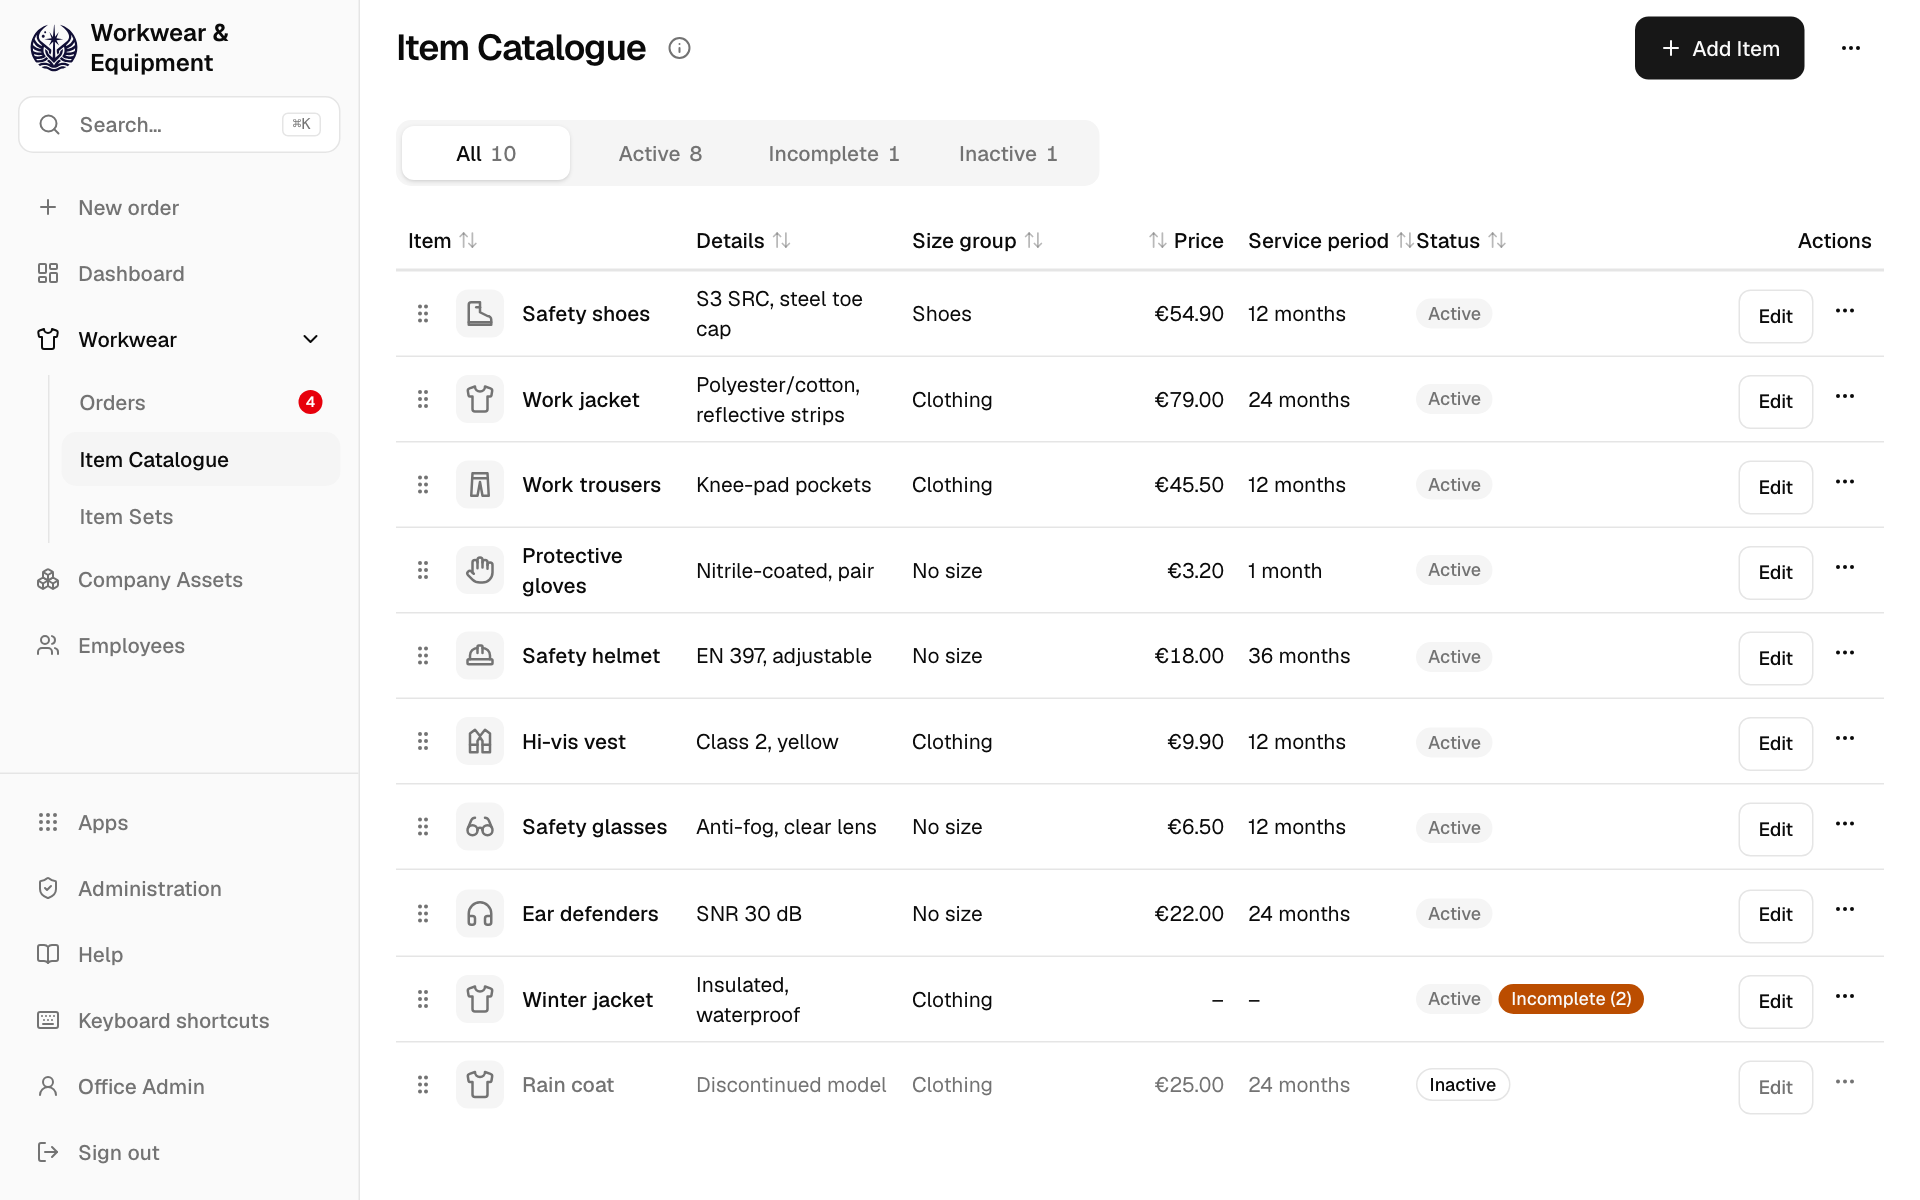
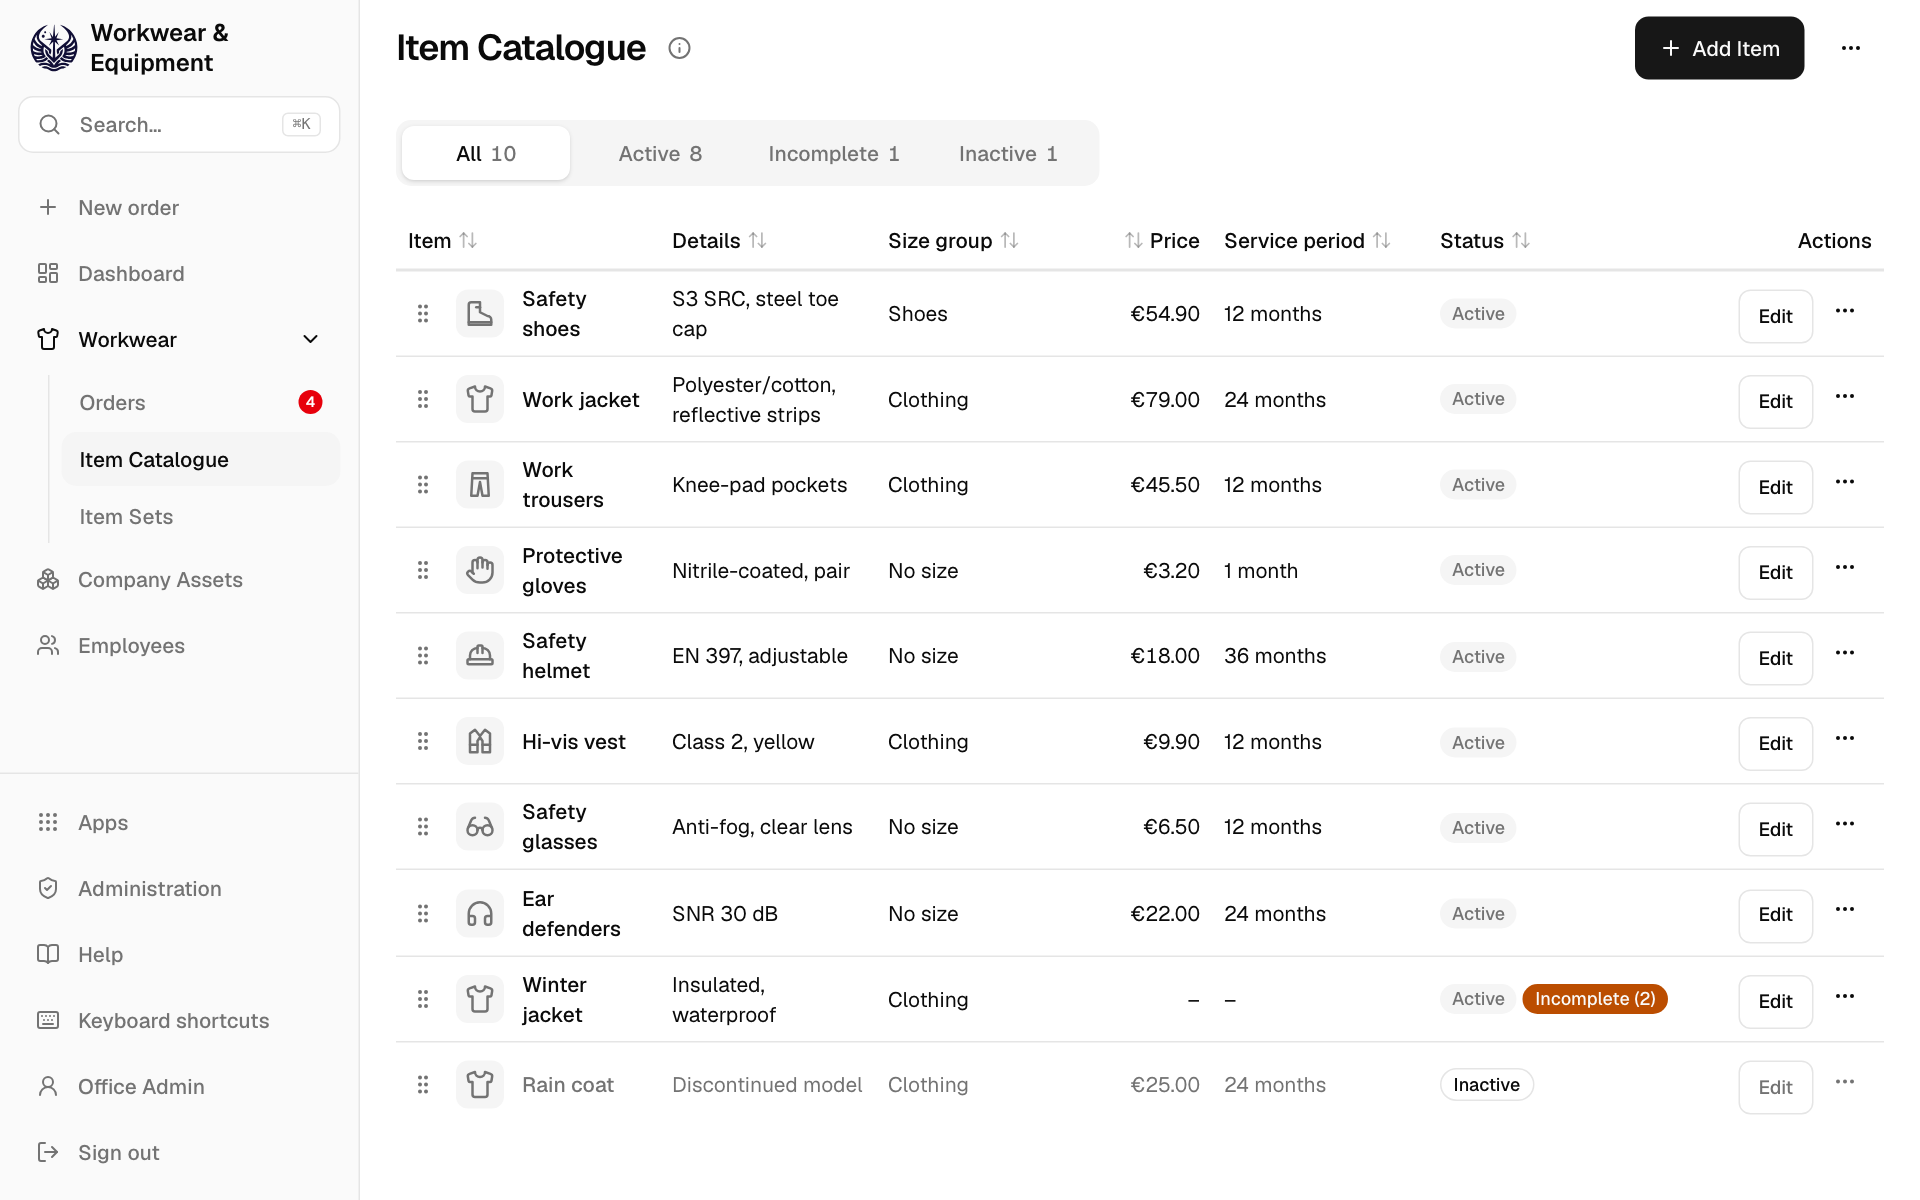
Item Catalogue: wider Service period column, retaken Help screenshots (WARE-41)

diff --git a/web/apps/workwear/src/routes/catalogue.tsx b/web/apps/workwear/src/routes/catalogue.tsx
@@ -53,7 +53,7 @@ type CatalogueSort = 'name' | 'details' | 'group' | 'price' | 'period' | 'status
 const besideColumns: CatalogueSort[] = ['name', 'price', 'status']
 
 /** Fixed column widths; the details take the rest. */
-const catalogueWidths: Partial<Record<CatalogueSort, string>> = { name: 'w-48', group: 'w-32', price: 'w-24', period: 'w-28', status: 'w-44' }
+const catalogueWidths: Partial<Record<CatalogueSort, string>> = { name: 'w-44', group: 'w-32', price: 'w-24', period: 'w-36', status: 'w-44' }
 const columns = (): SortColumn<CatalogueSort>[] => [
   { key: 'name', label: t.catalogue.colItem, kind: 'text' },
   { key: 'details', label: t.catalogue.colDetails, kind: 'text' },
@@ -250,7 +250,7 @@ export function Catalogue({
                   {shownColumns.map((c) => (
                     <SortableHead key={c.key} column={c} align={c.key === 'price' ? 'right' : 'left'} className={catalogueWidths[c.key]} {...sortProps} />
                   ))}
-                  {rowActions ? <TableHead className="w-36 text-right">{t.catalogue.actions}</TableHead> : null}
+                  {rowActions ? <TableHead className="w-32 text-right">{t.catalogue.actions}</TableHead> : null}
                 </TableRow>
               </TableHeader>
               <TableBody>
